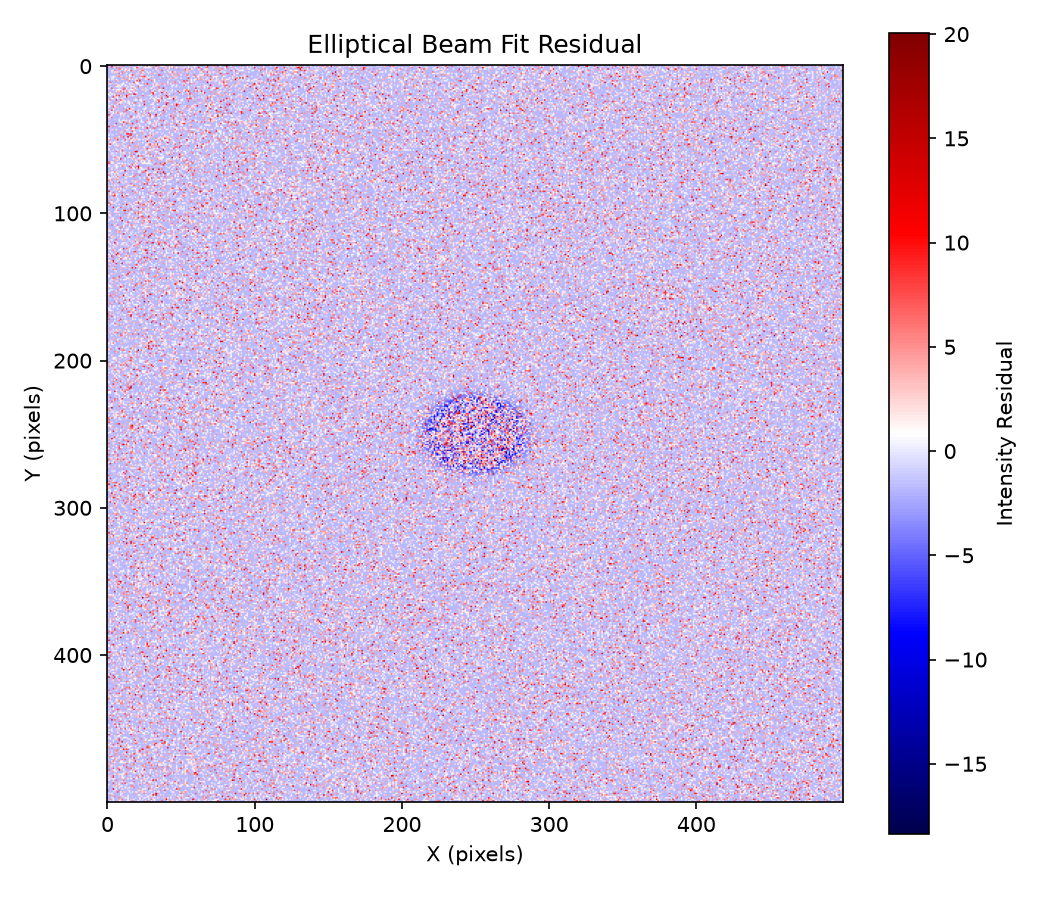
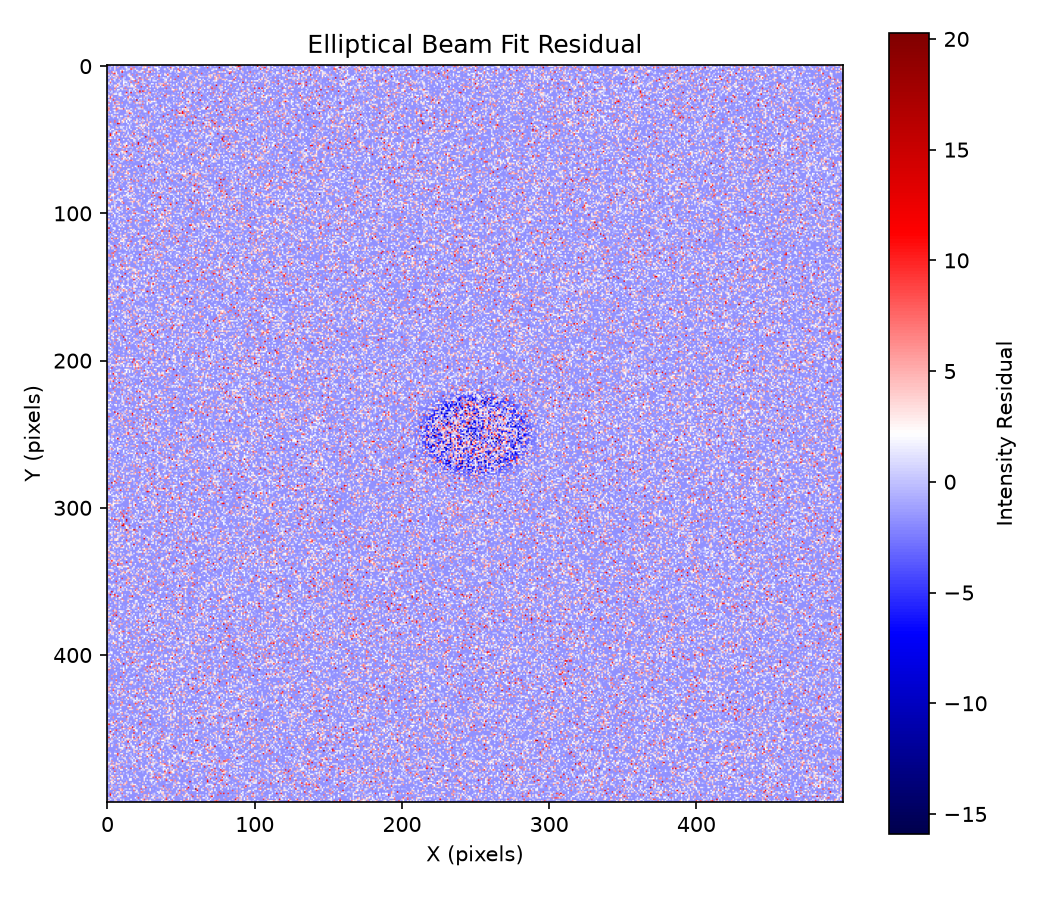
updated changes

diff --git a/src/reporting.py b/src/reporting.py
@@ -1,0 +1,190 @@
+from datetime import datetime
+
+
+def format_measurement_report(
+    beam_results,
+    uncertainty_results,
+    elliptical_results,
+    noise_results
+):
+    """
+    Create a formatted engineering measurement report.
+
+    Parameters
+    ----------
+    beam_results : pandas.DataFrame
+        Theory versus measured beam-radius results.
+
+    uncertainty_results : pandas.DataFrame
+        Repeatability and uncertainty measurements.
+
+    elliptical_results : dict
+        Results from elliptical beam validation.
+
+    noise_results : pandas.DataFrame
+        Noise sensitivity measurements.
+
+    Returns
+    -------
+    str
+        Formatted measurement report.
+    """
+
+    lines = []
+
+    lines.append("=" * 70)
+    lines.append("OPTICAL MEASUREMENT TOOLKIT")
+    lines.append("AUTOMATED MEASUREMENT REPORT")
+    lines.append("=" * 70)
+
+    lines.append(
+        f"Generated: {datetime.now().strftime('%Y-%m-%d %H:%M:%S')}"
+    )
+
+    lines.append("")
+
+    # --------------------------------------------------
+    # Theory vs Measurement
+    # --------------------------------------------------
+
+    lines.append("1. THEORY VS MEASUREMENT")
+    lines.append("-" * 70)
+
+    mean_error = beam_results[
+        "error_percent"
+    ].mean()
+
+    max_error = beam_results[
+        "error_percent"
+    ].max()
+
+    lines.append(
+        f"Mean measurement error: {mean_error:.2f}%"
+    )
+
+    lines.append(
+        f"Maximum measurement error: {max_error:.2f}%"
+    )
+
+    lines.append("")
+
+    # --------------------------------------------------
+    # Uncertainty Analysis
+    # --------------------------------------------------
+
+    lines.append("2. REPEATABILITY AND UNCERTAINTY")
+    lines.append("-" * 70)
+
+    mean_std = uncertainty_results[
+        "std_radius_mm"
+    ].mean()
+
+    max_std = uncertainty_results[
+        "std_radius_mm"
+    ].max()
+
+    lines.append(
+        f"Mean measurement standard deviation: "
+        f"{mean_std:.4f} mm"
+    )
+
+    lines.append(
+        f"Maximum measurement standard deviation: "
+        f"{max_std:.4f} mm"
+    )
+
+    lines.append("")
+
+    # --------------------------------------------------
+    # Elliptical Beam Validation
+    # --------------------------------------------------
+
+    lines.append("3. ELLIPTICAL BEAM VALIDATION")
+    lines.append("-" * 70)
+
+    lines.append(
+        f"True ellipticity: "
+        f"{elliptical_results['true_ellipticity']:.4f}"
+    )
+
+    lines.append(
+        f"Measured ellipticity: "
+        f"{elliptical_results['measured_ellipticity']:.4f}"
+    )
+
+    lines.append(
+        f"Ellipticity error: "
+        f"{elliptical_results['ellipticity_error']:.2f}%"
+    )
+
+    lines.append("")
+
+    # --------------------------------------------------
+    # Noise Sensitivity
+    # --------------------------------------------------
+
+    lines.append("4. NOISE SENSITIVITY")
+    lines.append("-" * 70)
+
+    highest_noise = noise_results.iloc[-1]
+
+    lines.append(
+        f"Highest tested noise level: "
+        f"{highest_noise['noise_std']}"
+    )
+
+    lines.append(
+        f"Radius X error at highest noise: "
+        f"{highest_noise['wx_error_percent']:.2f}%"
+    )
+
+    lines.append(
+        f"Radius Y error at highest noise: "
+        f"{highest_noise['wy_error_percent']:.2f}%"
+    )
+
+    lines.append(
+        f"Ellipticity error at highest noise: "
+        f"{highest_noise['ellipticity_error_percent']:.2f}%"
+    )
+
+    lines.append("")
+
+    # --------------------------------------------------
+    # Summary
+    # --------------------------------------------------
+
+    lines.append("5. ENGINEERING SUMMARY")
+    lines.append("-" * 70)
+
+    lines.append(
+        "The Gaussian fitting approach successfully recovered "
+        "beam dimensions from simulated intensity images."
+    )
+
+    lines.append(
+        "Measurement error remained low under nominal conditions "
+        "and increased with simulated sensor noise."
+    )
+
+    lines.append(
+        "Ellipticity measurements remained comparatively robust "
+        "under increased noise."
+    )
+
+    lines.append("")
+
+    lines.append("=" * 70)
+    lines.append("END OF REPORT")
+    lines.append("=" * 70)
+
+    return "\n".join(lines)
+
+
+def save_report(report_text, output_path):
+    """
+    Save a measurement report to a text file.
+    """
+
+    with open(output_path, "w") as file:
+        file.write(report_text)

diff --git a/experiments/generate_report.py b/experiments/generate_report.py
@@ -1,0 +1,71 @@
+import pandas as pd
+
+from src.reporting import (
+    format_measurement_report,
+    save_report
+)
+
+
+# --------------------------------------------------
+# Load measurement results
+# --------------------------------------------------
+
+beam_results = pd.read_csv(
+    "results/beam_measurements.csv"
+)
+
+uncertainty_results = pd.read_csv(
+    "results/uncertainty_measurements.csv"
+)
+
+noise_results = pd.read_csv(
+    "results/noise_sensitivity.csv"
+)
+
+
+# --------------------------------------------------
+# Elliptical beam validation results
+# --------------------------------------------------
+
+elliptical_results = {
+
+    "true_ellipticity": 1.20 / 0.90,
+
+    "measured_ellipticity": 1.3336,
+
+    "ellipticity_error": 0.02
+
+}
+
+
+# --------------------------------------------------
+# Generate report
+# --------------------------------------------------
+
+report = format_measurement_report(
+    beam_results,
+    uncertainty_results,
+    elliptical_results,
+    noise_results
+)
+
+
+# --------------------------------------------------
+# Save report
+# --------------------------------------------------
+
+output_path = "results/measurement_report.txt"
+
+save_report(
+    report,
+    output_path
+)
+
+
+print(
+    f"Measurement report saved to: {output_path}"
+)
+
+print()
+
+print(report)

diff --git a/experiments/run_all.py b/experiments/run_all.py
@@ -29,6 +29,24 @@ def run_experiment(module_name):
     return True
 
 
+def generate_report():
+    print("\n" + "=" * 60)
+    print("Generating measurement report")
+    print("=" * 60)
+
+    result = subprocess.run(
+        [sys.executable, "-m", "experiments.generate_report"],
+        check=False
+    )
+
+    if result.returncode != 0:
+        print("\nERROR: Measurement report generation failed.")
+        return False
+
+    print("\nCompleted: measurement report")
+    return True
+
+
 def main():
     print("Optical Measurement Toolkit")
     print("Running validation experiments...")
@@ -45,8 +63,21 @@ def main():
 
     if all_passed:
         print("All experiments completed successfully.")
+
+        report_success = generate_report()
+
+        if not report_success:
+            all_passed = False
+
     else:
         print("One or more experiments failed.")
+
+    print("=" * 60)
+
+    if all_passed:
+        print("Validation pipeline completed successfully.")
+    else:
+        print("Validation pipeline completed with errors.")
 
     print("=" * 60)
 
